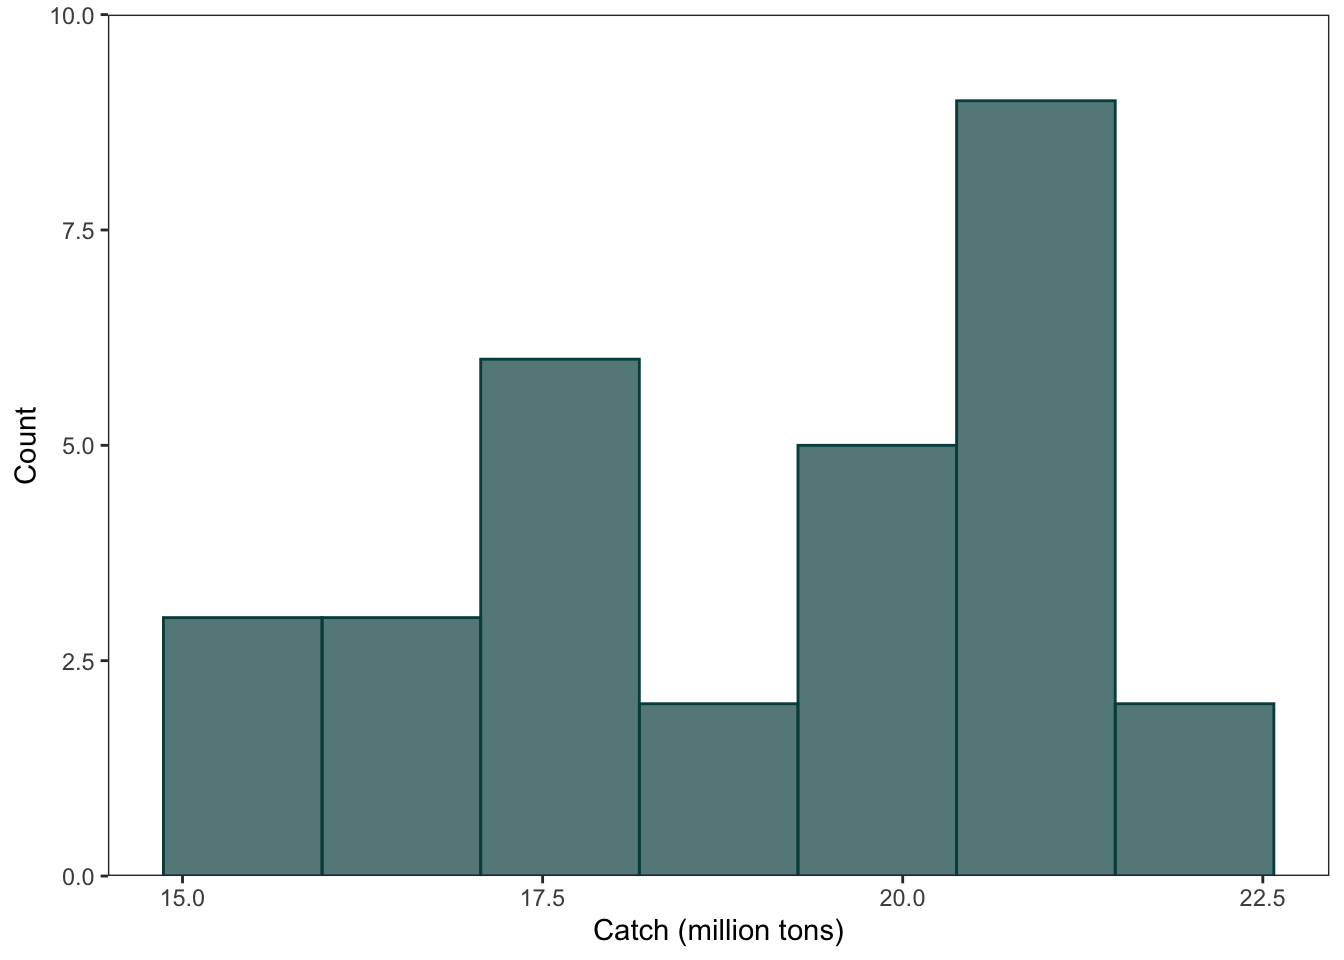
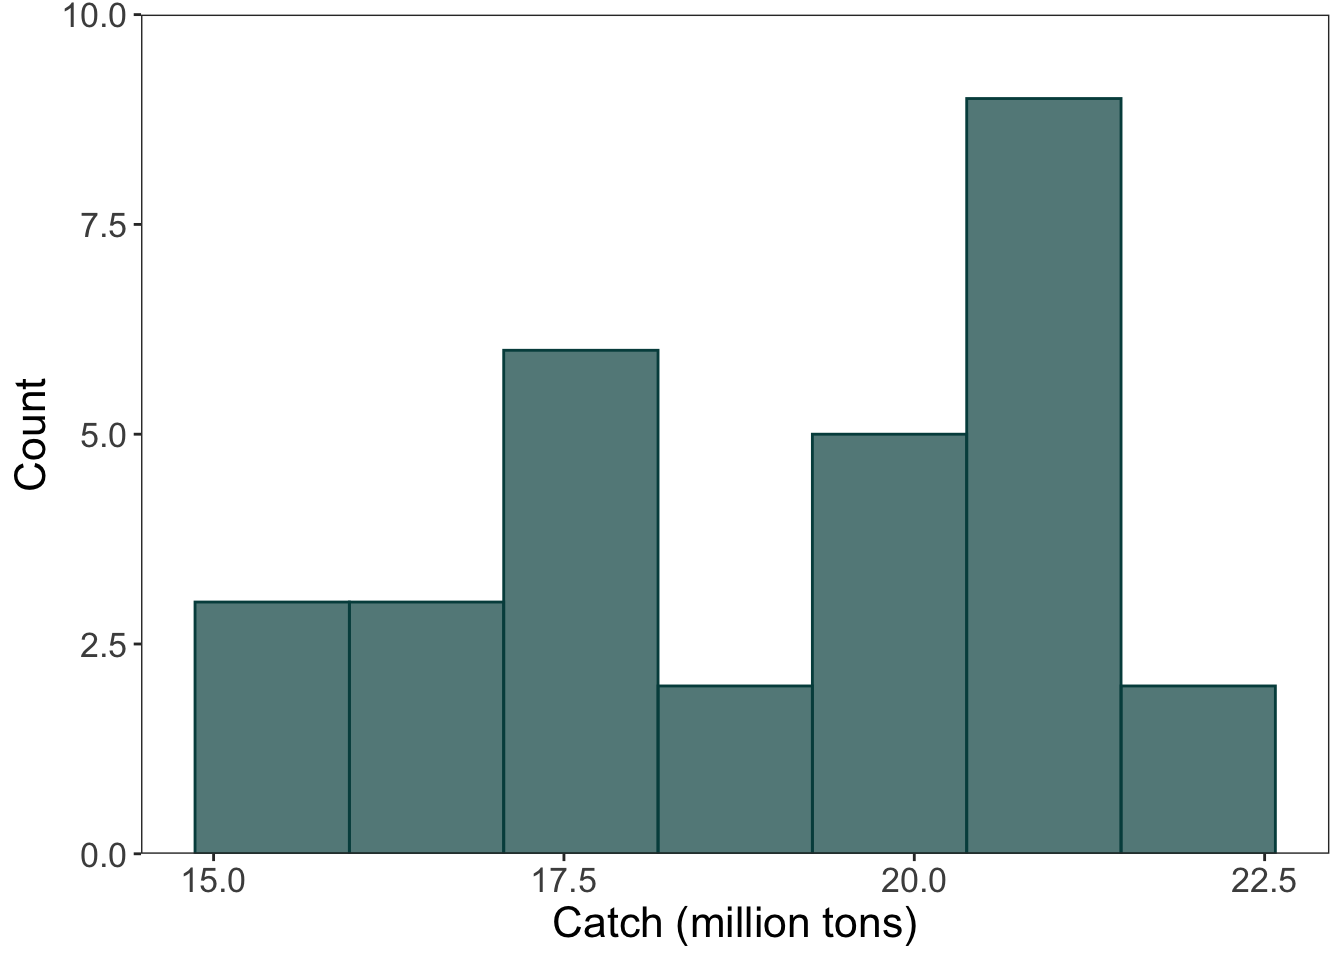
new visualizing figure text size

diff --git a/docs/05_visualizing.html b/docs/05_visualizing.html
@@ -258,8 +258,9 @@ Making your <code>ggplot()</code> objects look cohesive
 <div class="cell">
 <div class="sourceCode cell-code" id="cb1"><pre class="sourceCode r code-with-copy"><code class="sourceCode r"><span id="cb1-1"><a href="#cb1-1" aria-hidden="true" tabindex="-1"></a><span class="fu">theme_set</span>(</span>
 <span id="cb1-2"><a href="#cb1-2" aria-hidden="true" tabindex="-1"></a> <span class="fu">theme_bw</span>() <span class="sc">+</span> <span class="co"># cleaner theme</span></span>
-<span id="cb1-3"><a href="#cb1-3" aria-hidden="true" tabindex="-1"></a> <span class="fu">theme</span>(<span class="at">panel.grid =</span> <span class="fu">element_blank</span>()) <span class="co"># taking the gridlines out</span></span>
-<span id="cb1-4"><a href="#cb1-4" aria-hidden="true" tabindex="-1"></a>)</span></code><button title="Copy to Clipboard" class="code-copy-button"><i class="bi"></i></button></pre></div>
+<span id="cb1-3"><a href="#cb1-3" aria-hidden="true" tabindex="-1"></a> <span class="fu">theme</span>(<span class="at">panel.grid =</span> <span class="fu">element_blank</span>(), <span class="co"># taking the gridlines out</span></span>
+<span id="cb1-4"><a href="#cb1-4" aria-hidden="true" tabindex="-1"></a>       <span class="at">text =</span> <span class="fu">element_text</span>(<span class="at">size =</span> <span class="dv">16</span>)) <span class="co"># making the text bigger</span></span>
+<span id="cb1-5"><a href="#cb1-5" aria-hidden="true" tabindex="-1"></a>)</span></code><button title="Copy to Clipboard" class="code-copy-button"><i class="bi"></i></button></pre></div>
 </div>
 </div>
 </div>
@@ -412,7 +413,7 @@ How jitters work
 <div class="cell-output-display">
 <div>
 <figure class="figure">
-<p><img src="05_visualizing_files/figure-html/unnamed-chunk-7-1.png" class="img-fluid figure-img" width="672"></p>
+<p><img src="05_visualizing_files/figure-html/unnamed-chunk-7-1.png" class="img-fluid figure-img" width="960"></p>
 </figure>
 </div>
 </div>
